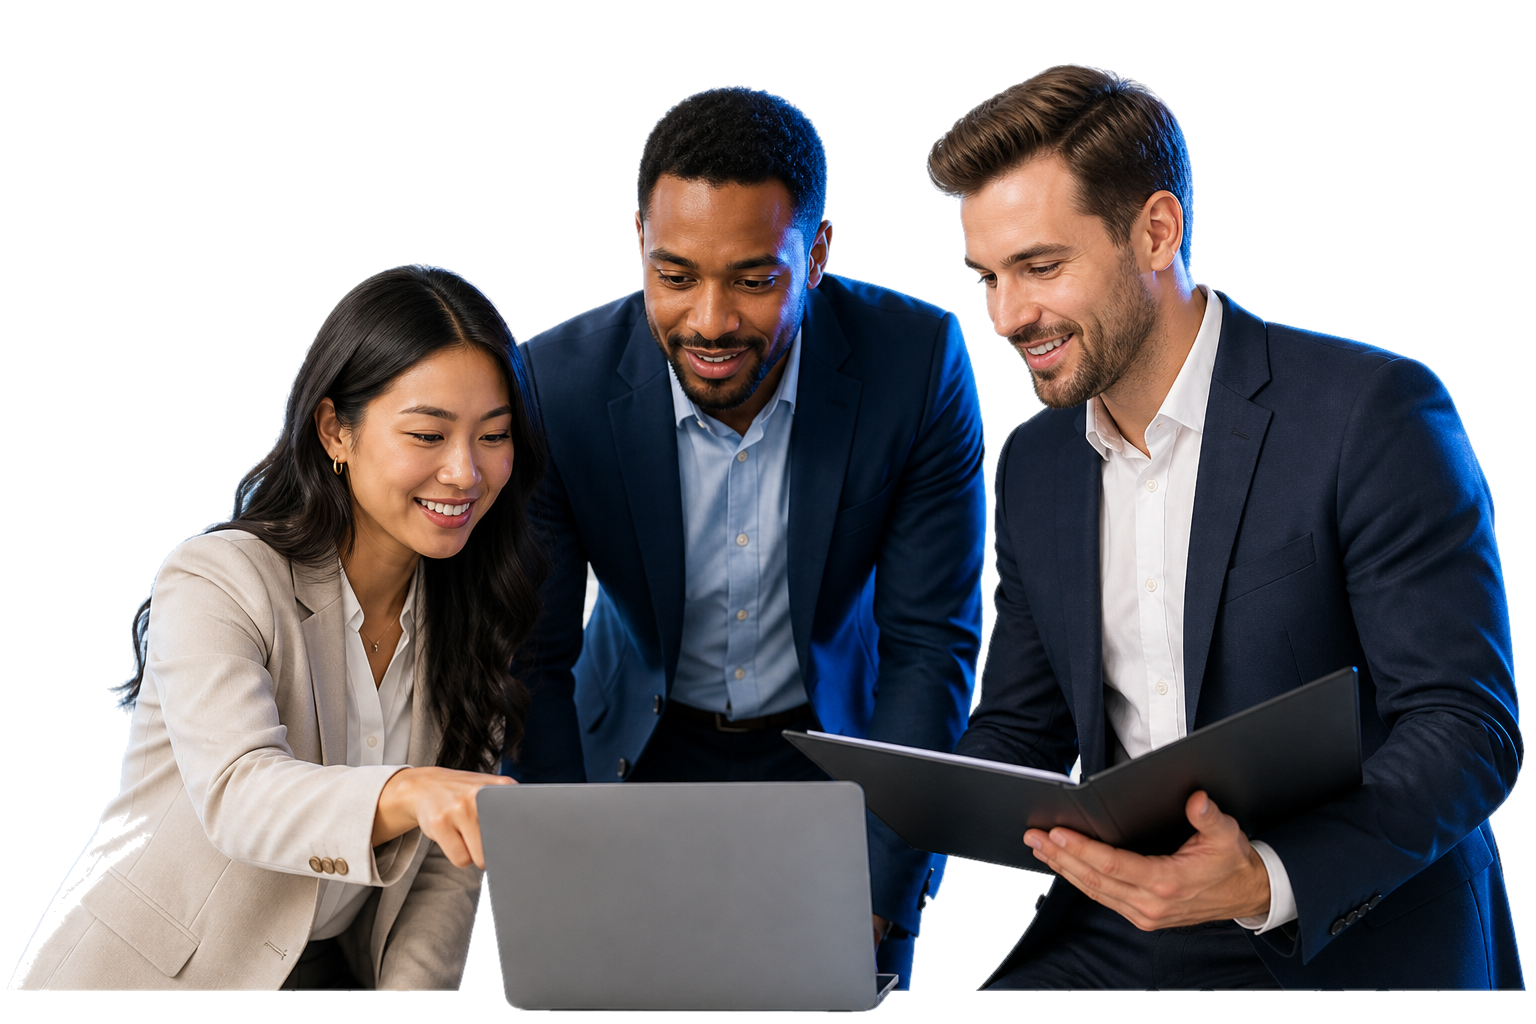
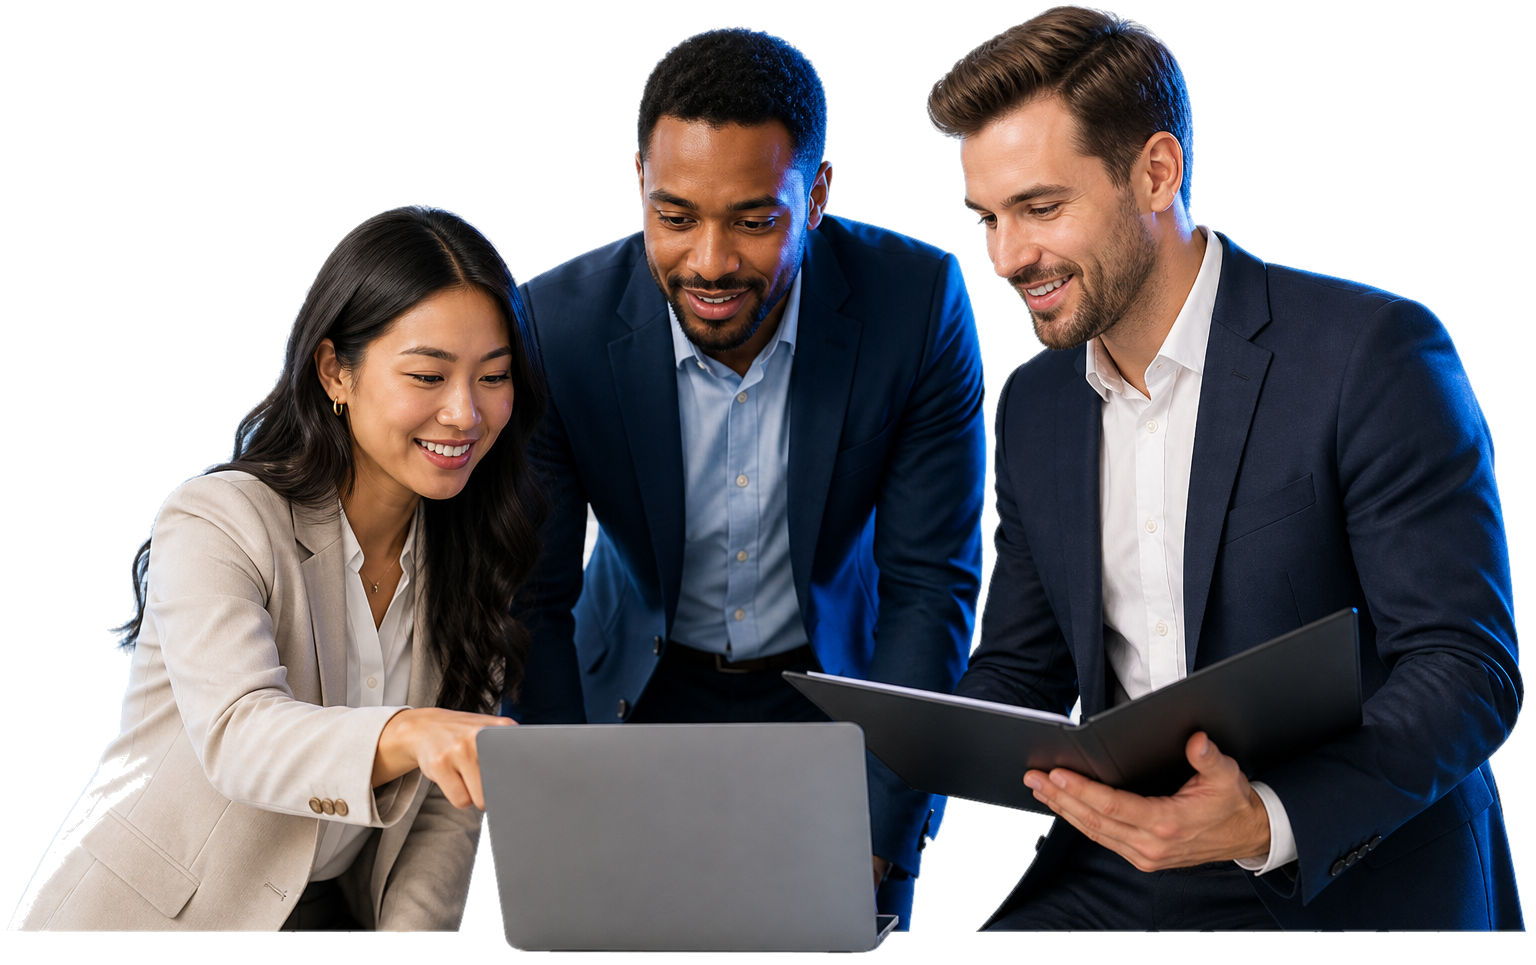
Crop and lift sales cutouts
Removes transparent padding from the sales cutout assets and shifts them higher so they fill the dead space above product screenshots.

diff --git a/index.html b/index.html
@@ -160,7 +160,7 @@
                     <div class="grid md:grid-cols-2 gap-10 md:gap-14 items-center">
                         <div class="order-2 md:order-1 sales-screenshot-stack">
                             <div class="sales-cutout-layer sales-cutout-layer--wide" aria-hidden="true">
-                                <img src="assets/proposal-delivery-team-cutout.png" alt="" width="1536" height="1024" loading="lazy">
+                                <img src="assets/proposal-delivery-team-cutout.png" alt="" width="1536" height="965" loading="lazy">
                             </div>
                             <div class="screenshot-frame">
                                 <img src="assets/proposal-irr-feature.png" alt="Enterprise proposal builder and IRR calculator" width="1600" height="900">
@@ -181,7 +181,7 @@
                         </div>
                         <div class="sales-screenshot-stack">
                             <div class="sales-cutout-layer sales-cutout-layer--compact" aria-hidden="true">
-                                <img src="assets/sales-irr-analysis-cutout.png" alt="" width="1536" height="1024" loading="lazy">
+                                <img src="assets/sales-irr-analysis-cutout.png" alt="" width="1425" height="985" loading="lazy">
                             </div>
                             <div class="screenshot-frame">
                                 <img src="assets/feature-deals.png" alt="Constellation deals pipeline and forecasting page" width="1600" height="900">
@@ -208,7 +208,7 @@
                         </div>
                         <div class="sales-screenshot-stack">
                             <div class="sales-cutout-layer" aria-hidden="true">
-                                <img src="assets/linkedin-social-posting-cutout.png" alt="" width="1536" height="1024" loading="lazy">
+                                <img src="assets/linkedin-social-posting-cutout.png" alt="" width="1439" height="979" loading="lazy">
                             </div>
                             <div class="screenshot-frame">
                                 <img src="assets/feature-social.png" alt="Constellation Social Hub with AI LinkedIn post generation" width="1600" height="900">

diff --git a/css/style.css b/css/style.css
@@ -132,7 +132,7 @@ html {
 .sales-screenshot-stack {
     position: relative;
     isolation: isolate;
-    padding-top: clamp(7rem, 15vw, 10rem);
+    padding-top: clamp(6.5rem, 14vw, 9.25rem);
 }
 
 .sales-screenshot-stack::before {
@@ -156,7 +156,7 @@ html {
     left: 50%;
     z-index: 2;
     width: min(36rem, 96%);
-    transform: translateX(-50%) translateY(-0.75rem);
+    transform: translateX(-50%) translateY(-2.1rem);
     pointer-events: none;
     filter:
         drop-shadow(0 0 10px rgba(219, 234, 254, 0.12))
